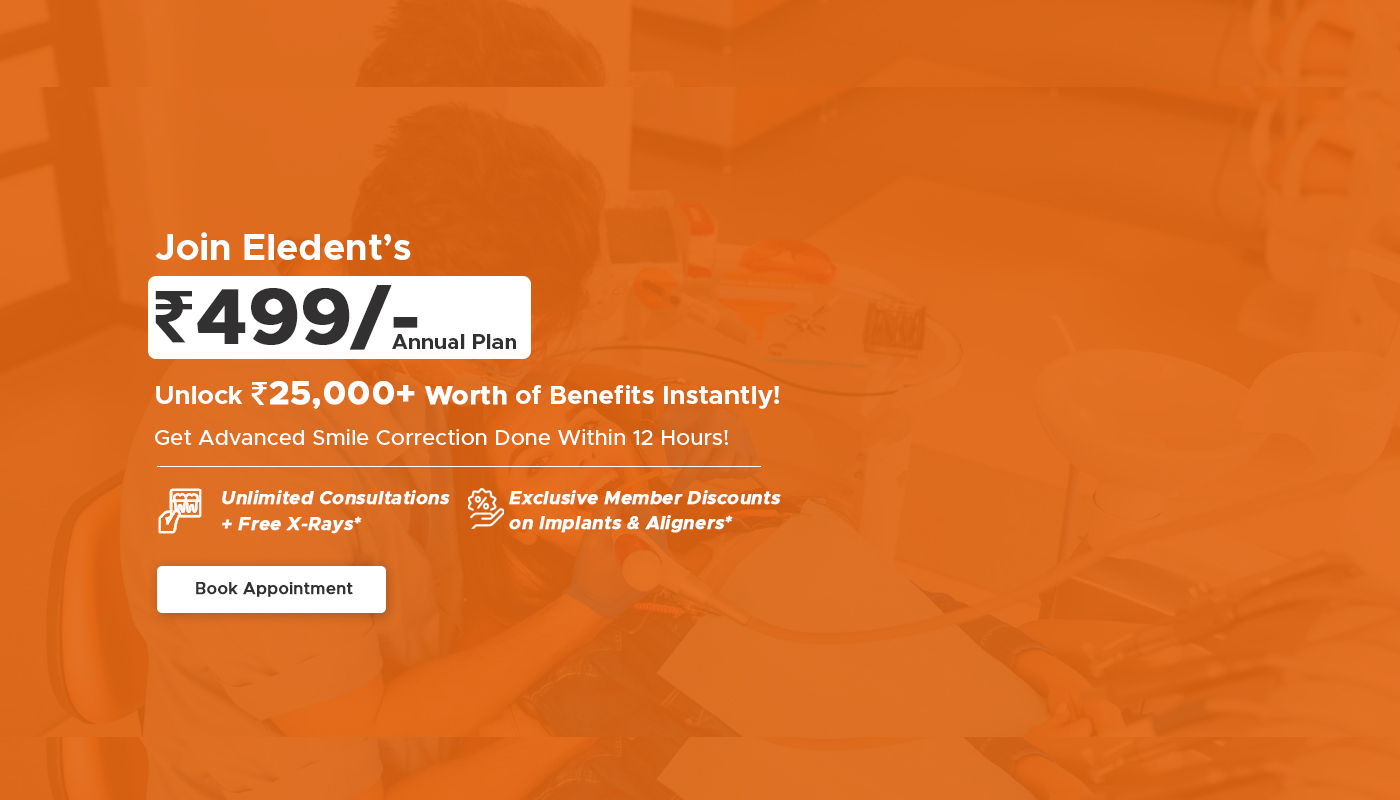
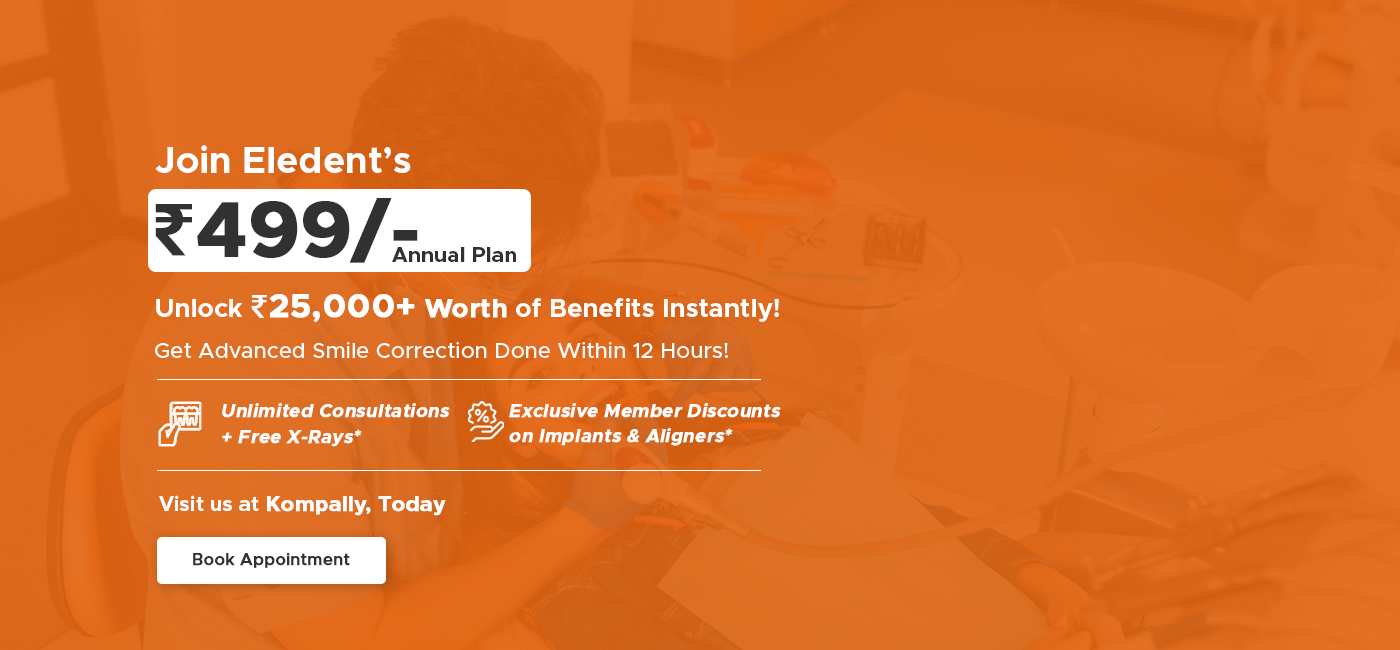
new leaidng page add

Changed region(s): [[0.0921, 0.2154, 0.5836, 0.9231]]

diff --git a/public/kompally-generic/index.html b/public/kompally-generic/index.html
@@ -4,7 +4,7 @@
 <html lang="en">
 
 <head>
-    <base href="/dental-generic/" />
+    <base href="/kompally-generic/" />
     <meta charset="utf-8" />
     <meta name="viewport" content="width=device-width, initial-scale=1" />
     <title>Eledent Hospital</title>
@@ -26,7 +26,7 @@
 
     <script src="js/jquery.min.js"></script>
     <link rel="stylesheet" type="text/css" href="css/bootstrap.min.css" />
-    <link rel="stylesheet" type="text/css" href="css/style.css?<?php echo time(); ?>" />
+    <link rel="stylesheet" type="text/css" href="css/style.css" />
     <link rel="stylesheet" type="text/css" href="css/responsive.css?<?php echo time(); ?>" />
     <link rel="stylesheet" type="text/css" href="css/owl.carousel.min.css" />
     <link rel="stylesheet" href="https://cdnjs.cloudflare.com/ajax/libs/font-awesome/6.5.2/css/all.min.css">
@@ -51,6 +51,7 @@
         })(window, document, 'script', 'dataLayer', 'GTM-W49C7DC');
     </script>
     <!-- End Google Tag Manager -->
+
 
 </head>
 
@@ -167,7 +168,7 @@
                 <h2 class="mb-1">100% Pain-Free Dental Solutions
                 </h2>
                 <p style="font-size: 20px;">
-                   Visit Eledent Dental at Kompally
+                    Visit Eledent Dental at Kompally
                 </p>
             </div>
             <div class="excellence-slide">
@@ -633,20 +634,20 @@
 
                         <!-- 🔽 Location Dropdown (added, no design change) -->
                         <div class="mb-1 location-select ">
-                             <h4  class="form-label text-white"> Kompally, Hyderabad </h4>
-                            
+                            <h4 class="form-label text-white"> Kompally, Hyderabad </h4>
+
                         </div>
 
                         <div class="clinic-address mt-4">
                             <div class="info-add mb-3">
                                 <a id="emailLink" href="mailto:[email redacted]">
-                                    <p><i class="fas fa-envelope me-2"></i>   [email redacted] </p>
+                                    <p><i class="fas fa-envelope me-2"></i> [email redacted] </p>
                                 </a>
                             </div>
 
                             <div class="info-add mb-3">
                                 <a id="phoneLink" href="tel:[phone redacted]">
-                                    <p><i class="fa-solid fa-phone me-2"></i>  [phone redacted] </p>
+                                    <p><i class="fa-solid fa-phone me-2"></i> [phone redacted] </p>
                                 </a>
                             </div>
 
@@ -1453,9 +1454,10 @@
 
 
             <div class="iframe-wrapper">
-                <iframe src="https://api.leadconnectorhq.com/widget/form/pDce9nK7M2lAZoylmNVC"
-                    style="width:100%;height:500px;border:none;border-radius:3px"
-                    title="Generic Google Ads LP" allow="autoplay" loading="lazy"></iframe>
+                <iframe id="popup-iframe" src=""
+                    data-src="https://api.leadconnectorhq.com/widget/form/pDce9nK7M2lAZoylmNVC"
+                    style="width:100%;height:500px;border:none;border-radius:3px" title="Generic Google Ads LP"
+                    allow="autoplay"></iframe>
                 <script src="https://link.msgsndr.com/js/form_embed.js"></script>
             </div>
         </div>
@@ -1581,6 +1583,10 @@
                 let scrollPercent = (scrollTop / (docHeight - winHeight)) * 100;
 
                 if (scrollPercent >= 50 && !shown) {
+                    var iframe = document.getElementById('popup-iframe');
+                    if (iframe) {
+                        iframe.src = iframe.getAttribute('data-src');
+                    }
                     $('#book-popup').fadeIn(400);
                     shown = true;
                 }
@@ -1624,7 +1630,7 @@
         AOS.init();
     </script>
 
-  
+
 
 </body>
 

diff --git a/public/dental-generic/index.html b/public/dental-generic/index.html
@@ -1459,9 +1459,10 @@
 
 
             <div class="iframe-wrapper">
-                <iframe src="https://api.leadconnectorhq.com/widget/form/pDce9nK7M2lAZoylmNVC"
+                <iframe id="popup-iframe" src=""
+                    data-src="https://api.leadconnectorhq.com/widget/form/pDce9nK7M2lAZoylmNVC"
                     style="width:100%;height:500px;border:none;border-radius:3px"
-                    title="Generic Google Ads LP" allow="autoplay" loading="lazy"></iframe>
+                    title="Generic Google Ads LP" allow="autoplay"></iframe>
                 <script src="https://link.msgsndr.com/js/form_embed.js"></script>
             </div>
         </div>
@@ -1587,6 +1588,10 @@
                 let scrollPercent = (scrollTop / (docHeight - winHeight)) * 100;
 
                 if (scrollPercent >= 50 && !shown) {
+                    var iframe = document.getElementById('popup-iframe');
+                    if (iframe) {
+                        iframe.src = iframe.getAttribute('data-src');
+                    }
                     $('#book-popup').fadeIn(400);
                     shown = true;
                 }

diff --git a/public/dental-implant/index.html b/public/dental-implant/index.html
@@ -1340,9 +1340,10 @@
             <p class="discount-info"> Get <span> 10% Discount </span> on all Dental Treatments </p>
 
             <div class="iframe-wrapper">
-                <iframe src="https://api.leadconnectorhq.com/widget/form/pDce9nK7M2lAZoylmNVC"
+                <iframe id="popup-iframe" src=""
+                    data-src="https://api.leadconnectorhq.com/widget/form/pDce9nK7M2lAZoylmNVC"
                     style="width:100%;height:500px;border:none;border-radius:3px"
-                    title="Generic Google Ads LP" allow="autoplay" loading="lazy"></iframe>
+                    title="Generic Google Ads LP" allow="autoplay"></iframe>
                 <script src="https://link.msgsndr.com/js/form_embed.js"></script>
             </div>
         </div>
@@ -1468,6 +1469,10 @@
                 let scrollPercent = (scrollTop / (docHeight - winHeight)) * 100;
 
                 if (scrollPercent >= 50 && !shown) {
+                    var iframe = document.getElementById('popup-iframe');
+                    if (iframe) {
+                        iframe.src = iframe.getAttribute('data-src');
+                    }
                     $('#book-popup').fadeIn(400);
                     shown = true;
                 }

diff --git a/public/invisalign/index.html b/public/invisalign/index.html
@@ -1333,9 +1333,10 @@
             <p class="discount-info"> Get <span> 10% Discount </span> on all Dental Treatments </p>
 
             <div class="iframe-wrapper">
-                <iframe src="https://api.leadconnectorhq.com/widget/form/pDce9nK7M2lAZoylmNVC"
+                <iframe id="popup-iframe" src=""
+                    data-src="https://api.leadconnectorhq.com/widget/form/pDce9nK7M2lAZoylmNVC"
                     style="width:100%;height:500px;border:none;border-radius:3px"
-                    title="Generic Google Ads LP" allow="autoplay" loading="lazy"></iframe>
+                    title="Generic Google Ads LP" allow="autoplay"></iframe>
                 <script src="https://link.msgsndr.com/js/form_embed.js"></script>
             </div>
         </div>
@@ -1461,6 +1462,10 @@
                 let scrollPercent = (scrollTop / (docHeight - winHeight)) * 100;
 
                 if (scrollPercent >= 50 && !shown) {
+                    var iframe = document.getElementById('popup-iframe');
+                    if (iframe) {
+                        iframe.src = iframe.getAttribute('data-src');
+                    }
                     $('#book-popup').fadeIn(400);
                     shown = true;
                 }

diff --git a/public/kompally-generic/css/style.css b/public/kompally-generic/css/style.css
@@ -203,7 +203,7 @@ ul {
 .home-banner-area {
     background-color: #fff6f0;
     padding: 170px 0px 60px;
-    background-image: url('../images/banner-02.png');
+    background-image: url('../images/Eledent-new-banner.jpg');
     background-repeat: no-repeat;
     width: 100%;
     background-position: 50% 50%;